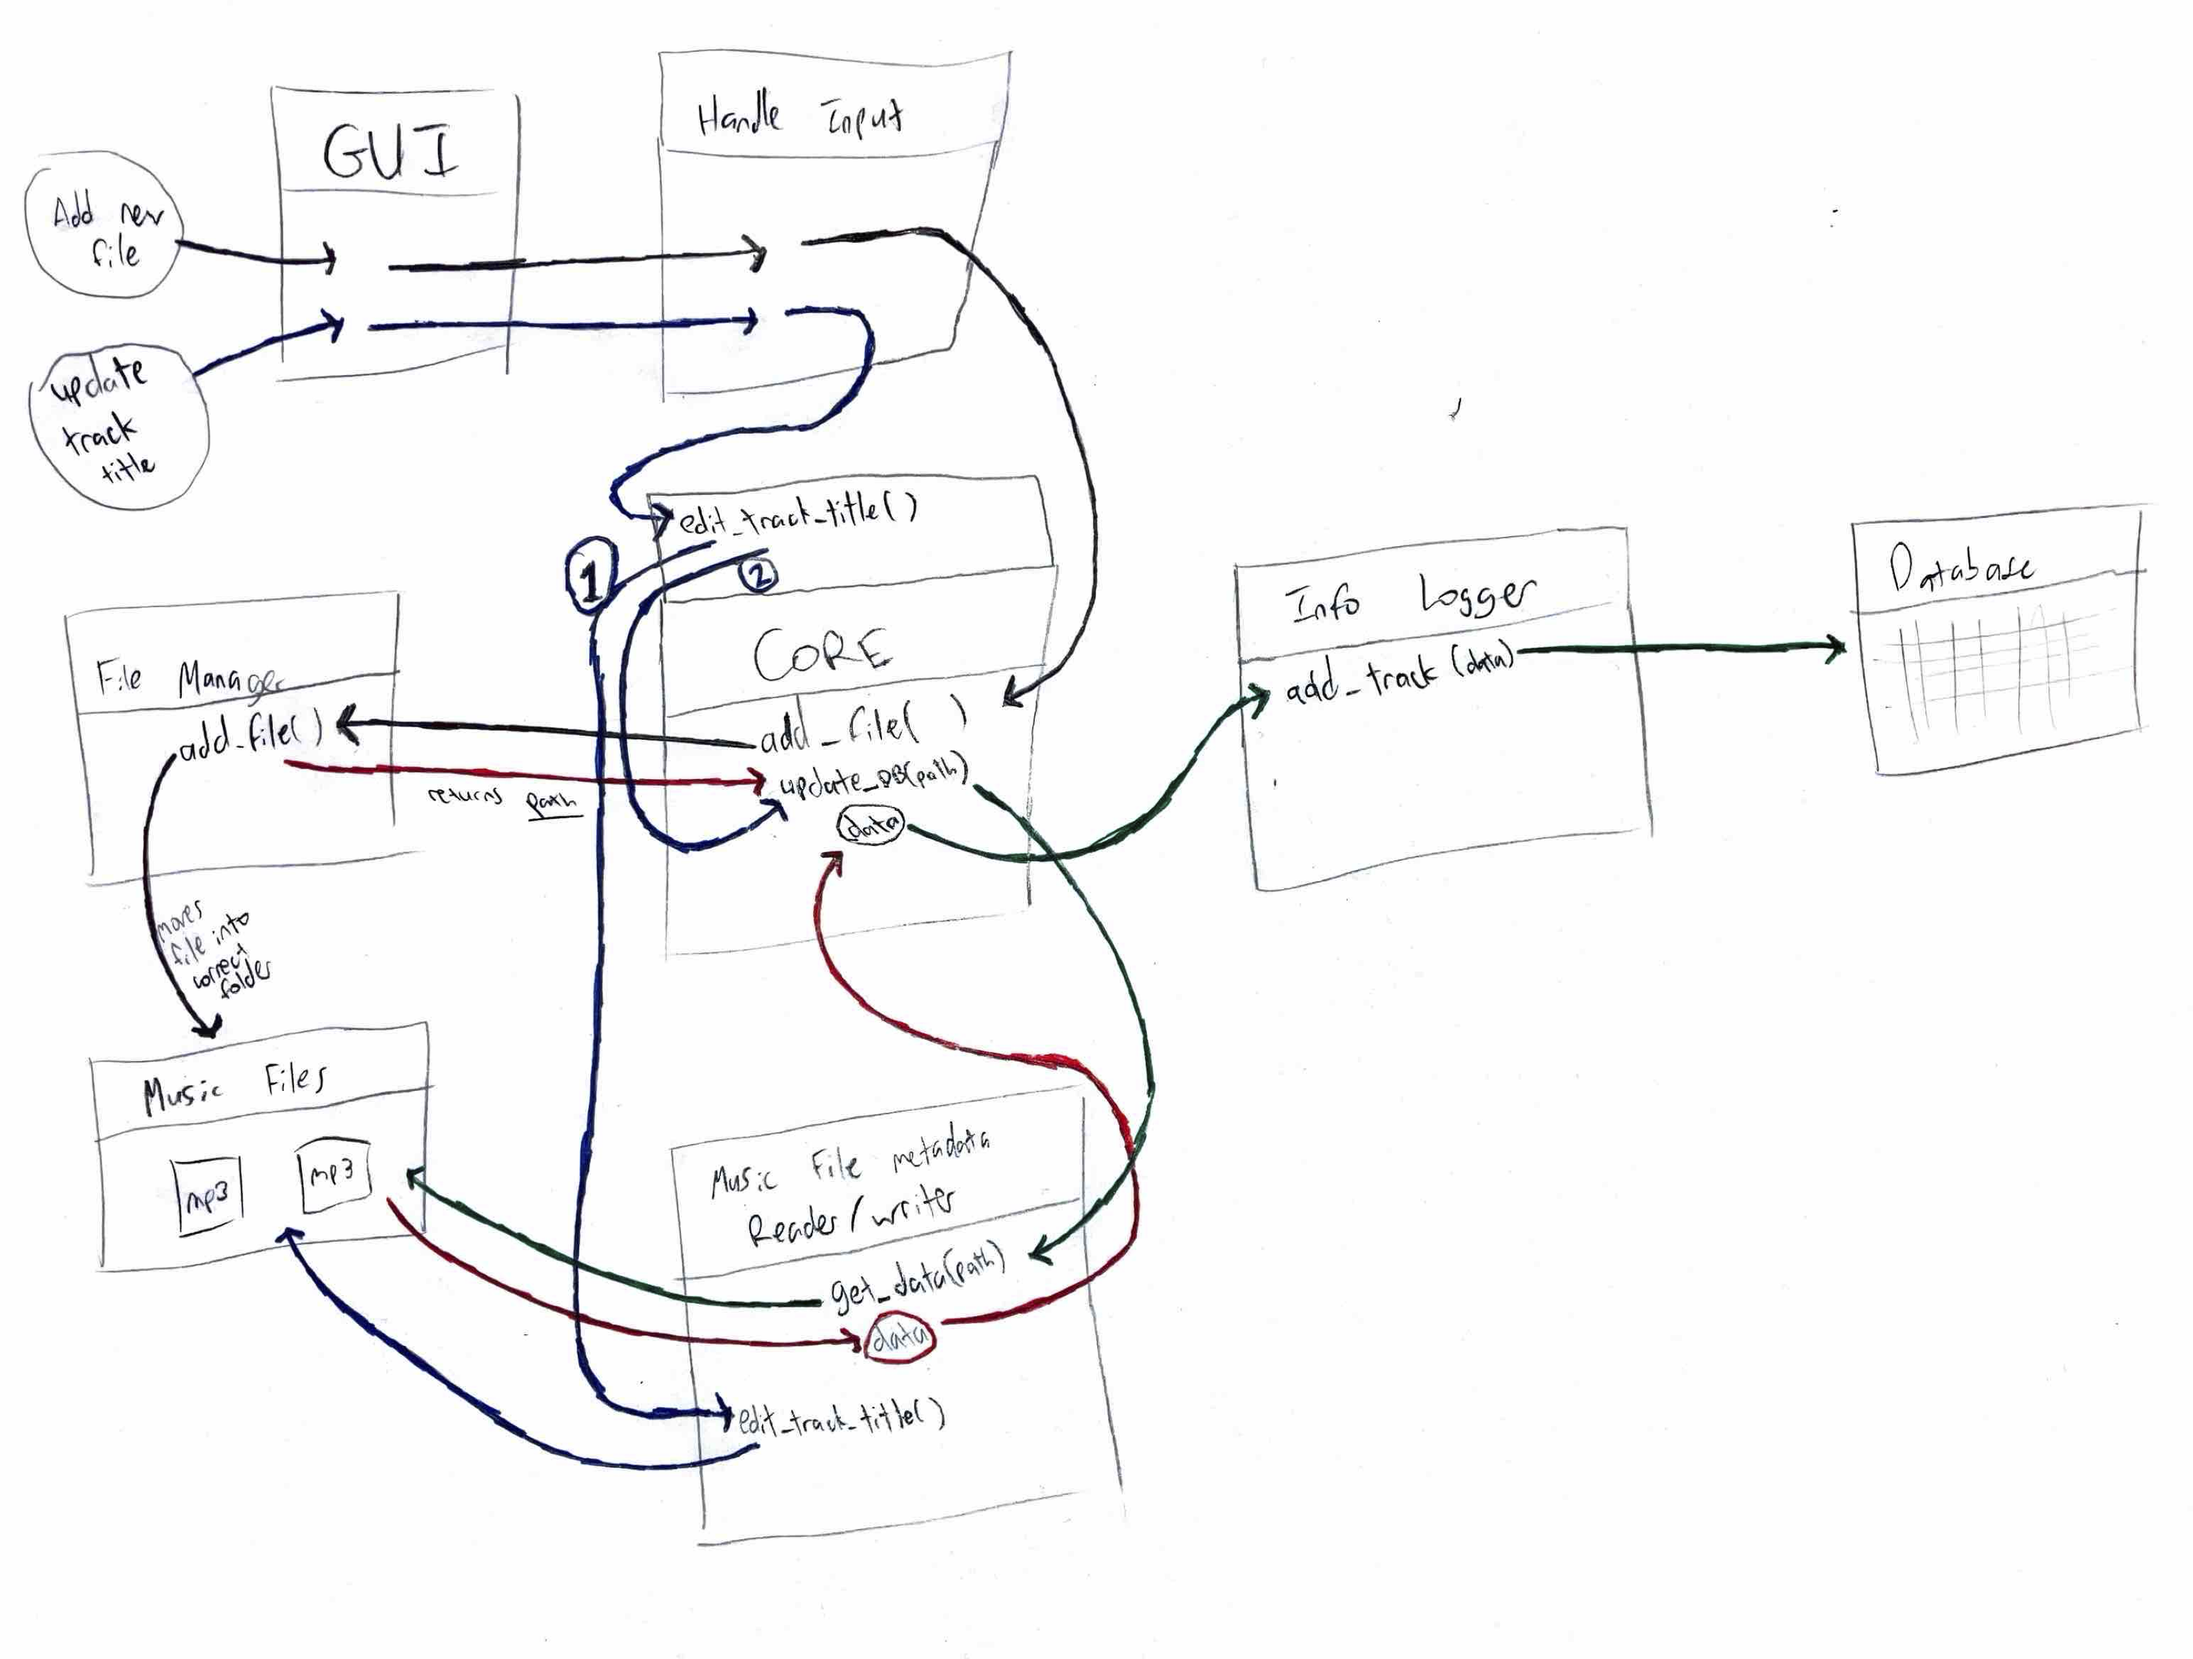
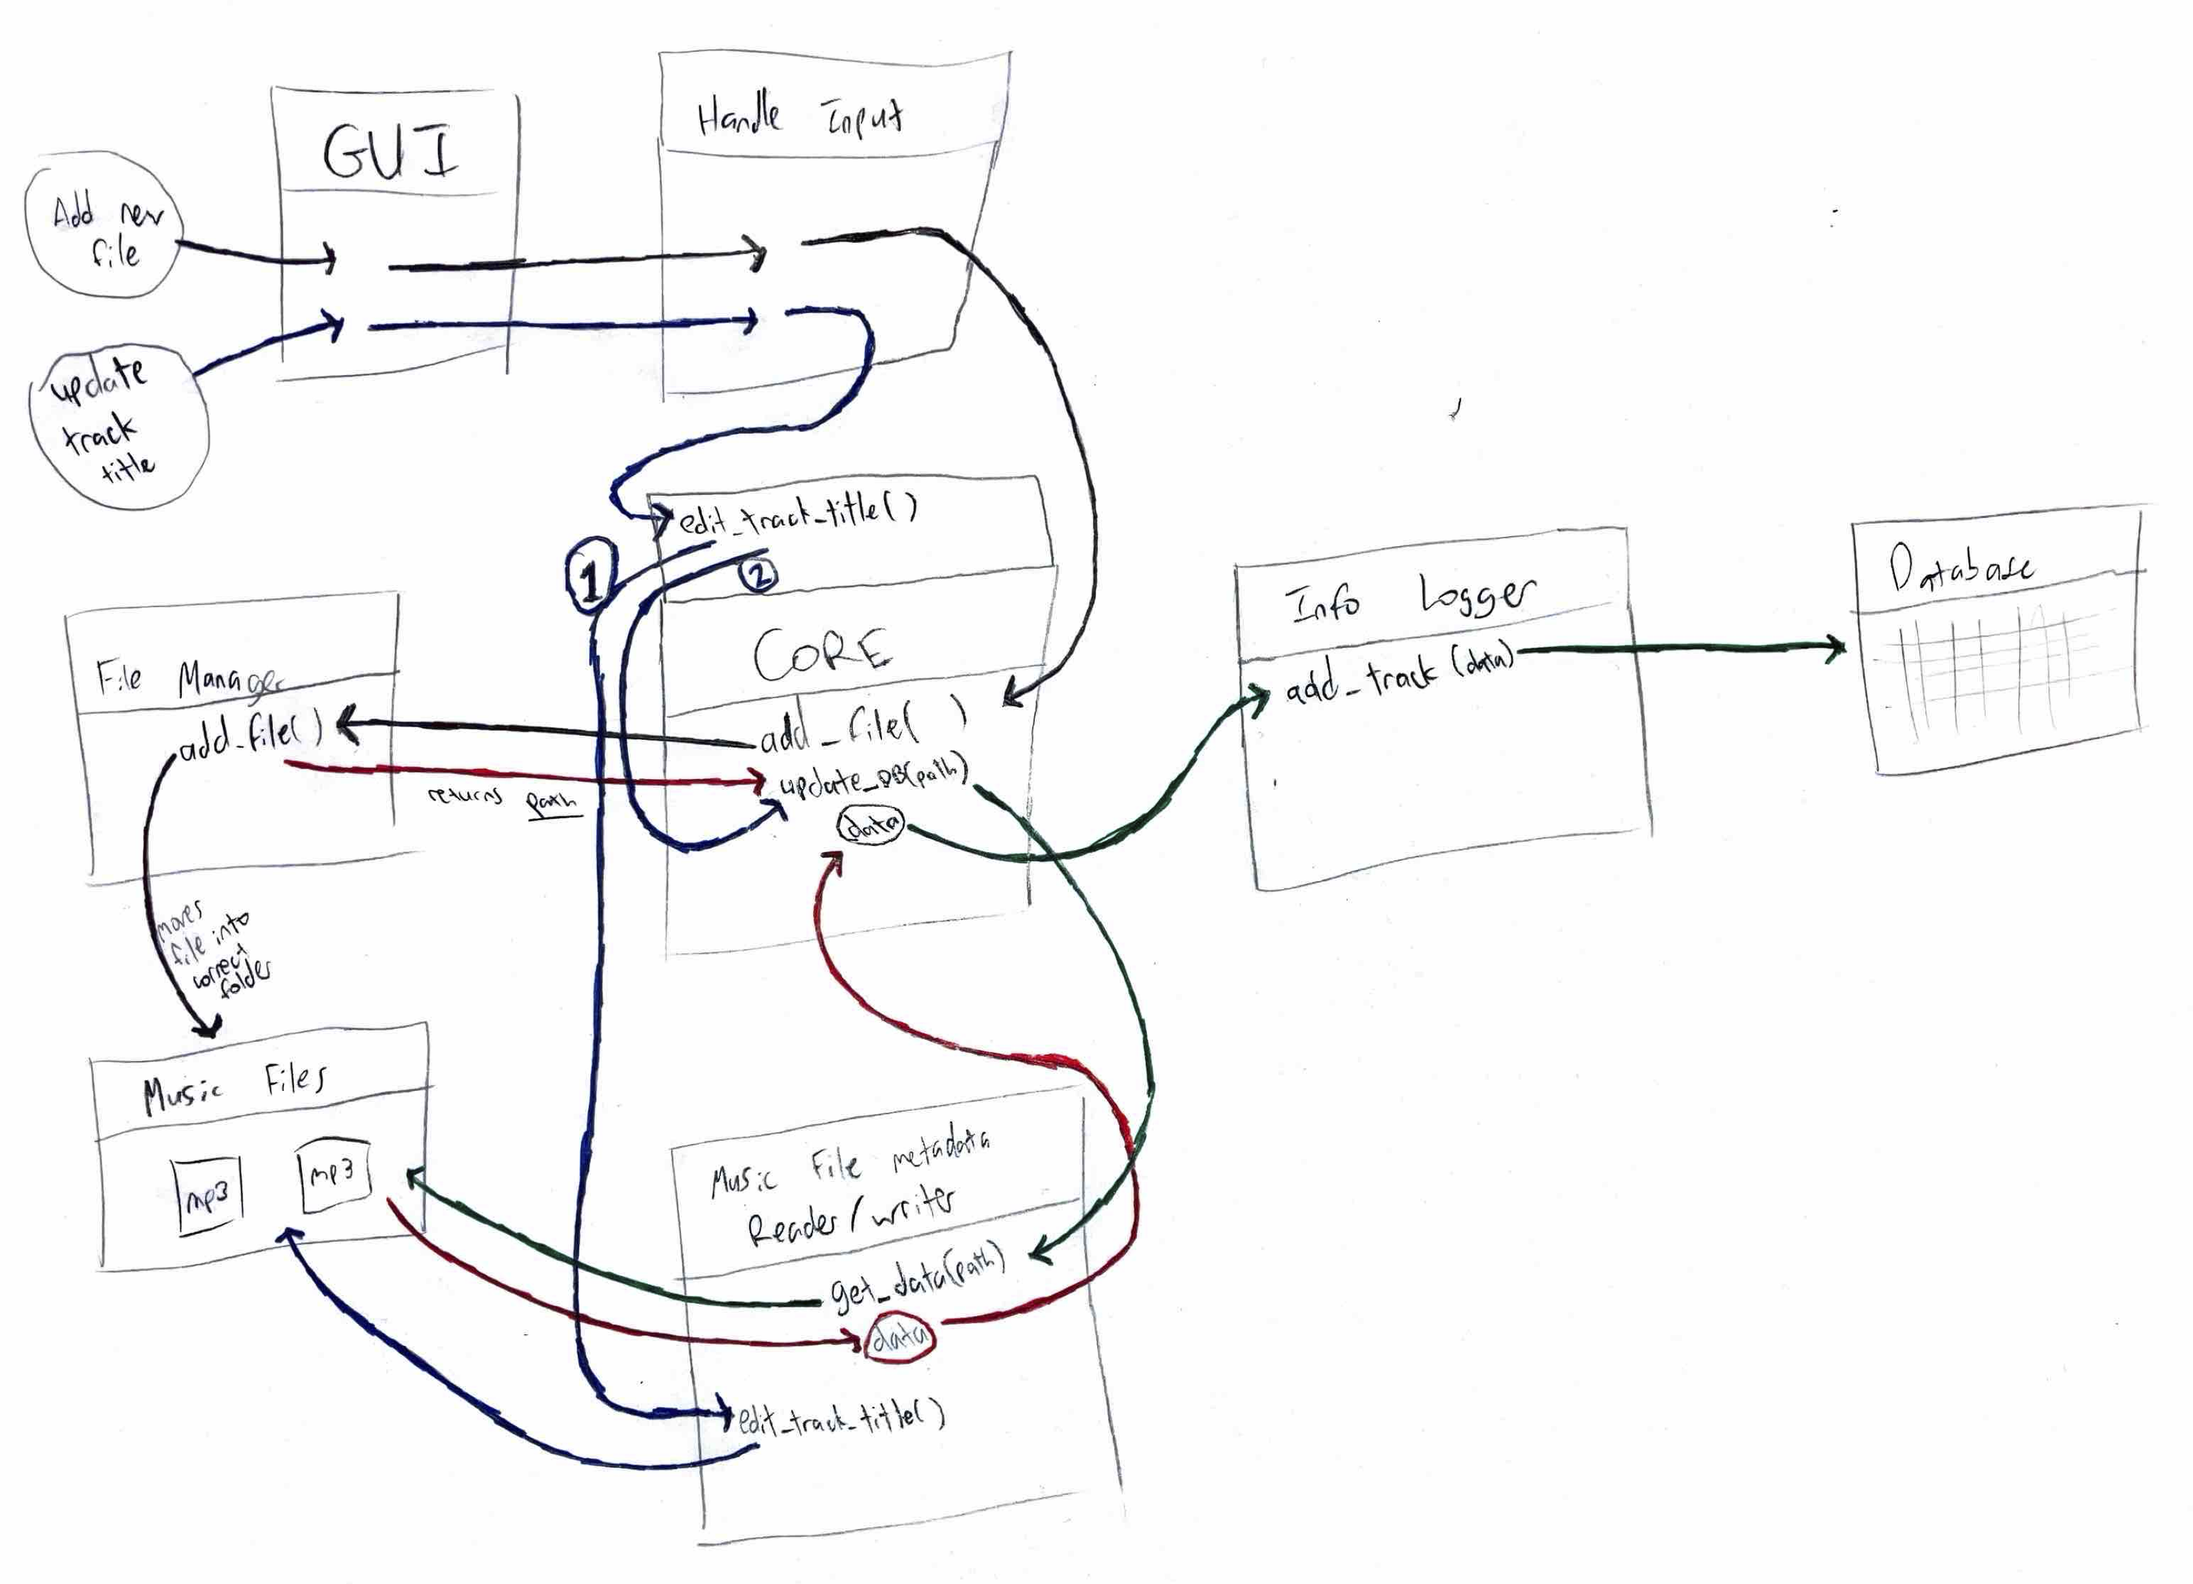
updated music manager formatting

diff --git a/projects/music_manager.html b/projects/music_manager.html
@@ -43,18 +43,10 @@
 
         <!-- Music Manager -->
         <div class="project music_manager">
-
             <!---------------------- SECTION 1 ---------------------->
             <div class="section_1">
-                <!-- TODO: intro description -->
-                <!-- TODO: intro description -->
-                <!-- TODO: intro description -->
-                <!-- TODO: intro description -->
-                <!-- TODO: intro description -->
-                <!-- TODO: intro description -->
-
                 <!-- core bullet points -->
-                <div>
+                <div class="left">
                     <h1>Music Manager</h1>
                     <ul>
                         <li>
@@ -70,8 +62,8 @@
                         <li><b>Libraries:</b> Qt, TagLib</li>
                         <li><b>Database:</b> SQLite</li>
                     </ul>
-
-                    <!-- features -->
+            
+                <!-- features -->
                     <h2>Features</h2>
                     <ul>
                         <li>Supports MP3, AAC, WAV, AIFF, FLAC, and ALAC files</li>
@@ -82,24 +74,20 @@
                         <li>SQLite database</li>
                         <li>Qt GUI</li>
                     </ul>
-
                 </div>
 
-                <div class="media">
-                    <img src="../media/projects/music_manager/music_manager.png">
+                <div class="right media">
                     <img src="../media/projects/music_manager/track_popup.png">
                 </div>
             </div>
 
+            <!---------------------- SECTION 1.5 ---------------------->
+            <div class="media">
+                    <img src="../media/projects/music_manager/music_manager.png">
+            </div>
+
             <!---------------------- SECTION 2 ---------------------->
             <div class="section_2">
-
-                <div class="media">
-                    <video controls>
-                        <source src="../media/projects/music_manager/qt_demo.mov">
-                    </video>
-                    <img src="../media/projects/music_manager/architecture.png">
-                </div>
                 
                 <!-- resume text -->
                 <ul>
@@ -109,6 +97,13 @@
                     <li>Designed a relational SQLite database for tracks, artists, and albums, implementing logic to automatically create, associate, and remove related records as library contents change</li>
                     <li>Planned a 3-phase roadmap with architecture diagrams, database schema, and UI mockups to establish system architecture and project scope before implementation</li>
                 </ul>
+
+                <div class="media">
+                    <video controls>
+                        <source src="../media/projects/music_manager/qt_demo.mov">
+                    </video>
+                    <img src="../media/projects/music_manager/architecture.png">
+                </div>
             </div>
         </div>
     </main>

diff --git a/projects.html b/projects.html
@@ -54,7 +54,7 @@
             <!---------------------- SECTION 1 ---------------------->
             <div class="section_1">
                 <!-- core bullet points -->
-                <div>
+                <div class="left">
                     <h1>Music Manager</h1>
                     <ul>
                         <li>
@@ -70,8 +70,8 @@
                         <li><b>Libraries:</b> Qt, TagLib</li>
                         <li><b>Database:</b> SQLite</li>
                     </ul>
-
-                    <!-- features -->
+            
+                <!-- features -->
                     <h2>Features</h2>
                     <ul>
                         <li>Supports MP3, AAC, WAV, AIFF, FLAC, and ALAC files</li>
@@ -82,24 +82,20 @@
                         <li>SQLite database</li>
                         <li>Qt GUI</li>
                     </ul>
-
                 </div>
 
-                <div class="media">
-                    <img src="media/projects/music_manager/music_manager.png">
+                <div class="right media">
                     <img src="media/projects/music_manager/track_popup.png">
                 </div>
             </div>
 
+            <!---------------------- SECTION 1.5 ---------------------->
+            <div class="media">
+                    <img src="media/projects/music_manager/music_manager.png">
+            </div>
+
             <!---------------------- SECTION 2 ---------------------->
             <div class="section_2">
-
-                <div class="media">
-                    <video controls>
-                        <source src="media/projects/music_manager/qt_demo.mov">
-                    </video>
-                    <img src="media/projects/music_manager/architecture.png">
-                </div>
                 
                 <!-- resume text -->
                 <ul>
@@ -109,6 +105,13 @@
                     <li>Designed a relational SQLite database for tracks, artists, and albums, implementing logic to automatically create, associate, and remove related records as library contents change</li>
                     <li>Planned a 3-phase roadmap with architecture diagrams, database schema, and UI mockups to establish system architecture and project scope before implementation</li>
                 </ul>
+
+                <div class="media">
+                    <video controls>
+                        <source src="media/projects/music_manager/qt_demo.mov">
+                    </video>
+                    <img src="media/projects/music_manager/architecture.png">
+                </div>
             </div>
         </div>
 

diff --git a/css/projects.css b/css/projects.css
@@ -87,28 +87,18 @@ li {
 
     /* Music Manager */
     .music_manager
-    .section_1
-    h1 {
+    h1, h2 {
         margin-bottom: 10px;
     }
     .music_manager
-    .section_1
-    h2 {
-        margin-top: 20px;
-    }
-    .music_manager
-    .media {
-        margin-top: 20px;
+    ul {
+        margin-top: 10px;
+        margin-bottom: 15px;
     }
     .music_manager
     .media 
     * {
         margin-bottom: 15px;
-    }
-    /* Music Manager - Section 2 */
-    .music_manager
-    .section_2 {
-        margin-top: 10px;
     }
 
     /* Pixel Board */
@@ -188,24 +178,25 @@ li {
     }
     .music_manager
     .section_1
-    h1 {
-        margin-bottom: 20px;
+    .left {
+        margin-right: 20px; /* gap between left & right columns */
     }
     .music_manager
-    .section_1
-    h2 {
-        margin-top: 20px;
+    ul {
+        margin-top: 10px;
+        margin-bottom: 20px;
     }
     .music_manager
     .media 
     * {
         margin-bottom: 15px;
-        margin-left: 25px;
     }
-    /* Music Manager - Section 2 */
     .music_manager
-    .section_2 {
-        margin-top: 20px;
+    .section_2
+    .media {
+        display: grid;
+        grid-template-columns: 48% 48%;
+        gap: 4%
     }
 
     /* Pixel Board */
